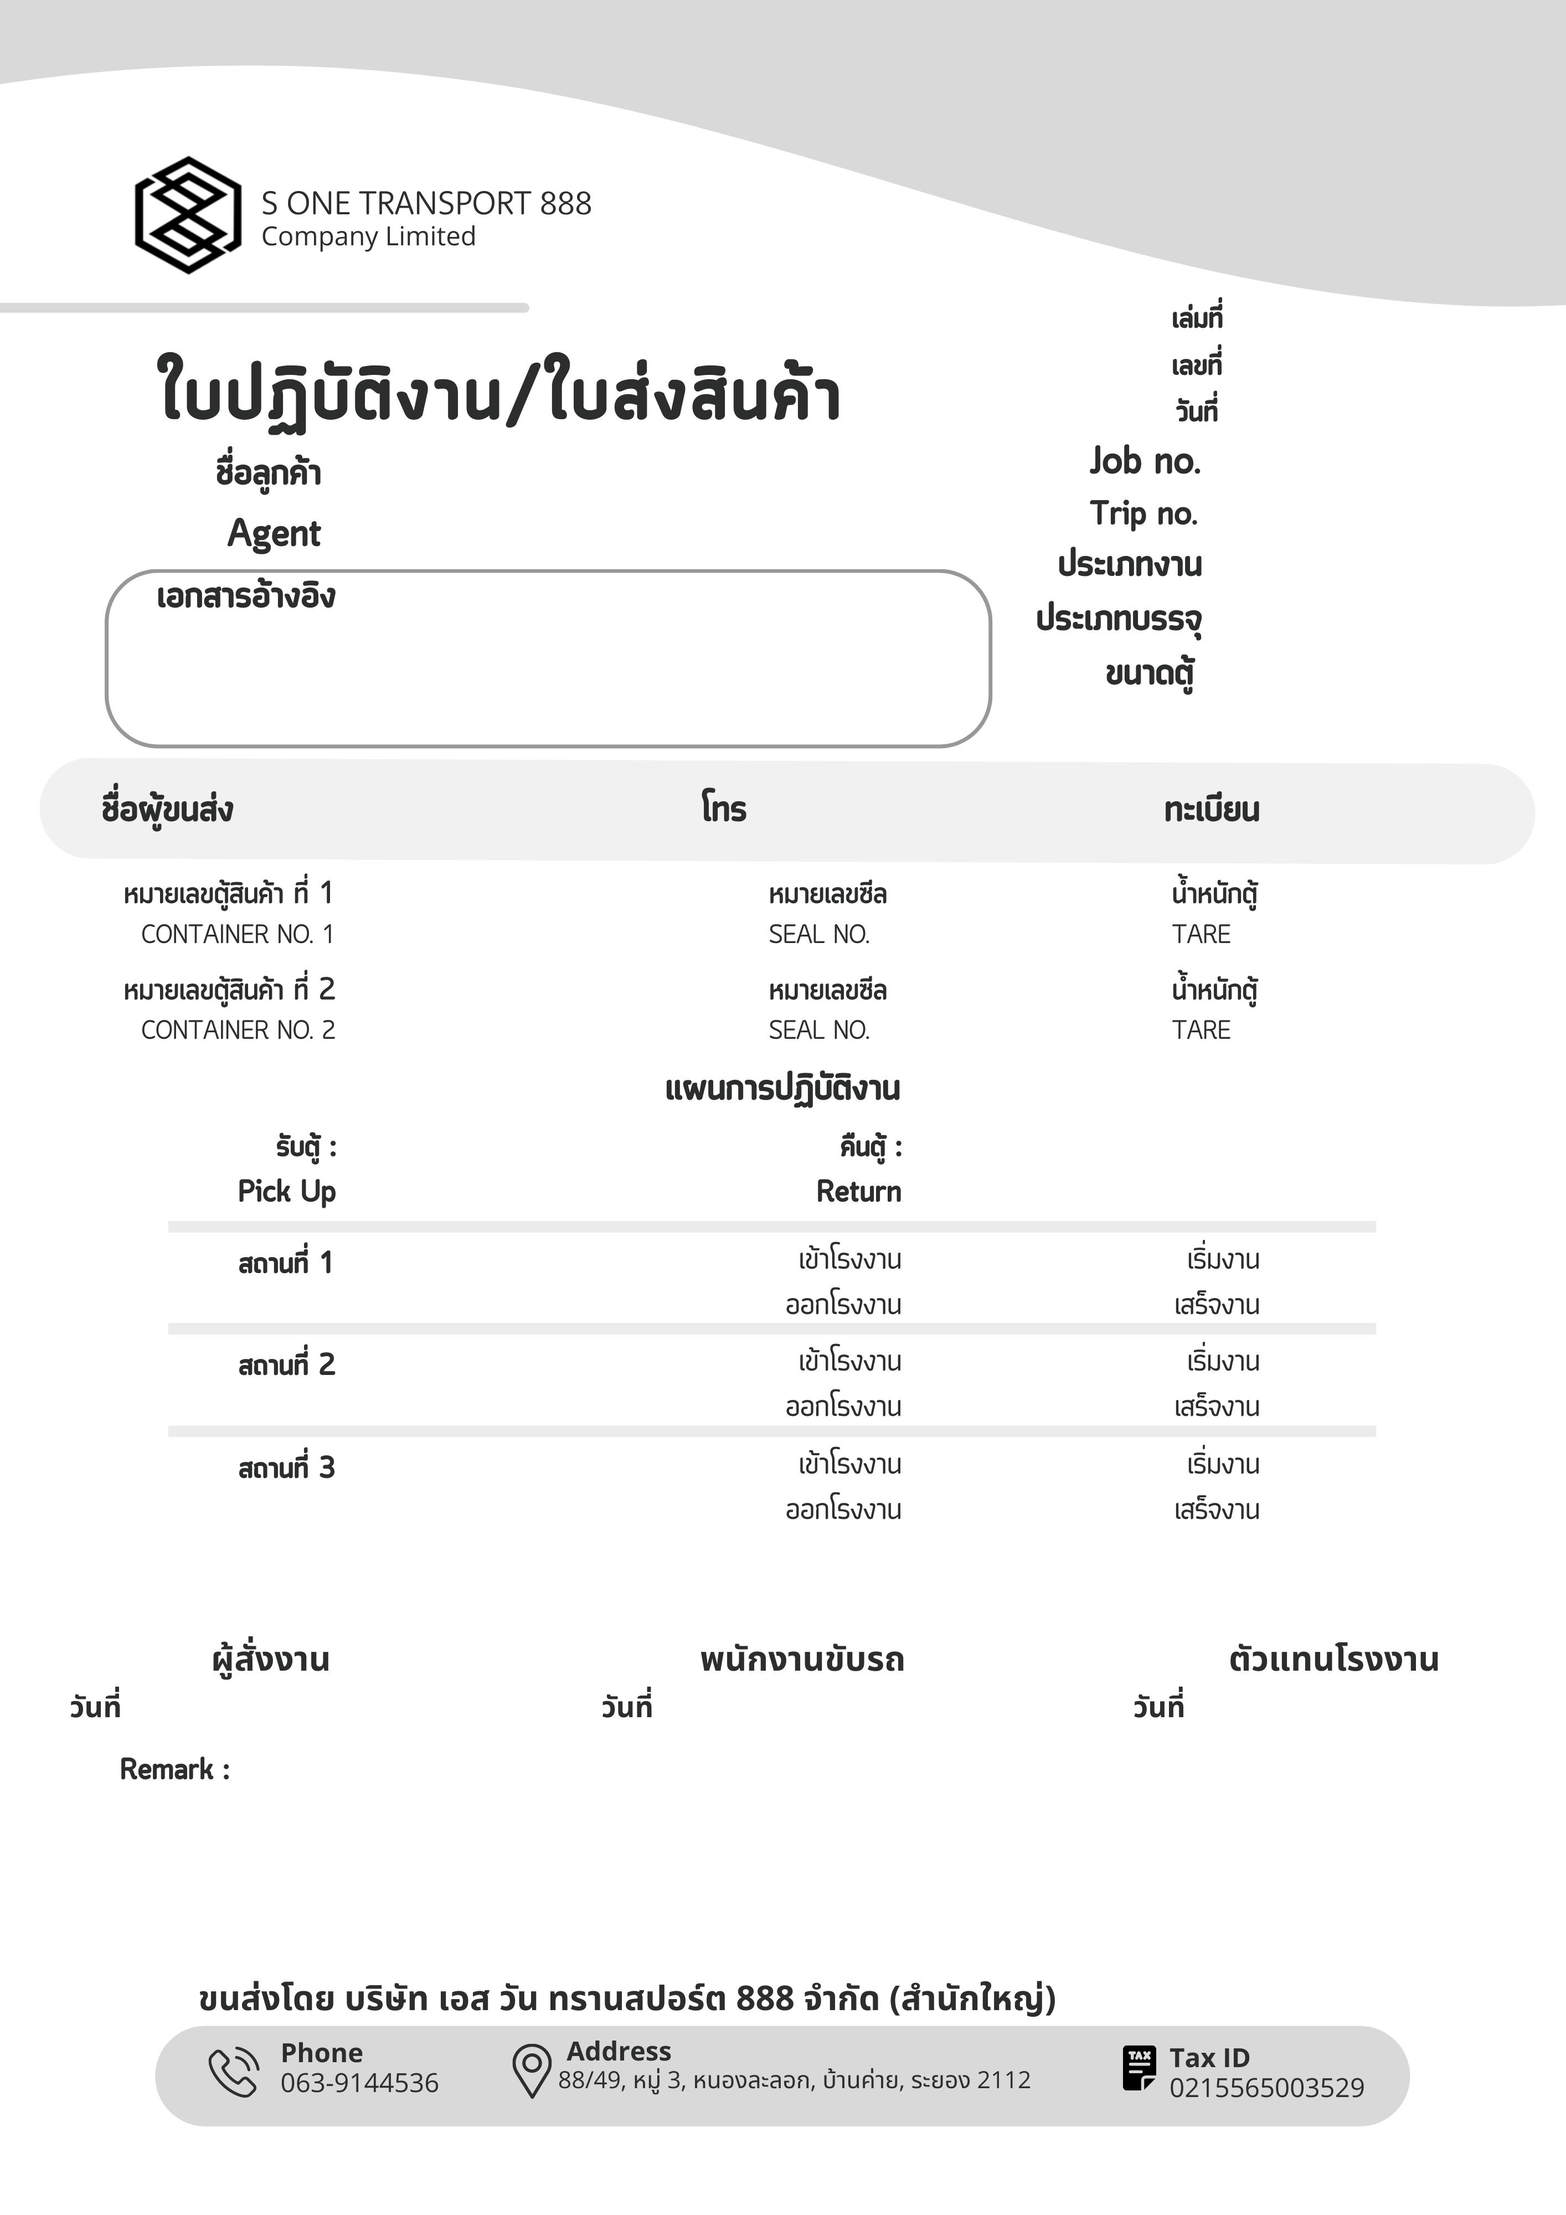
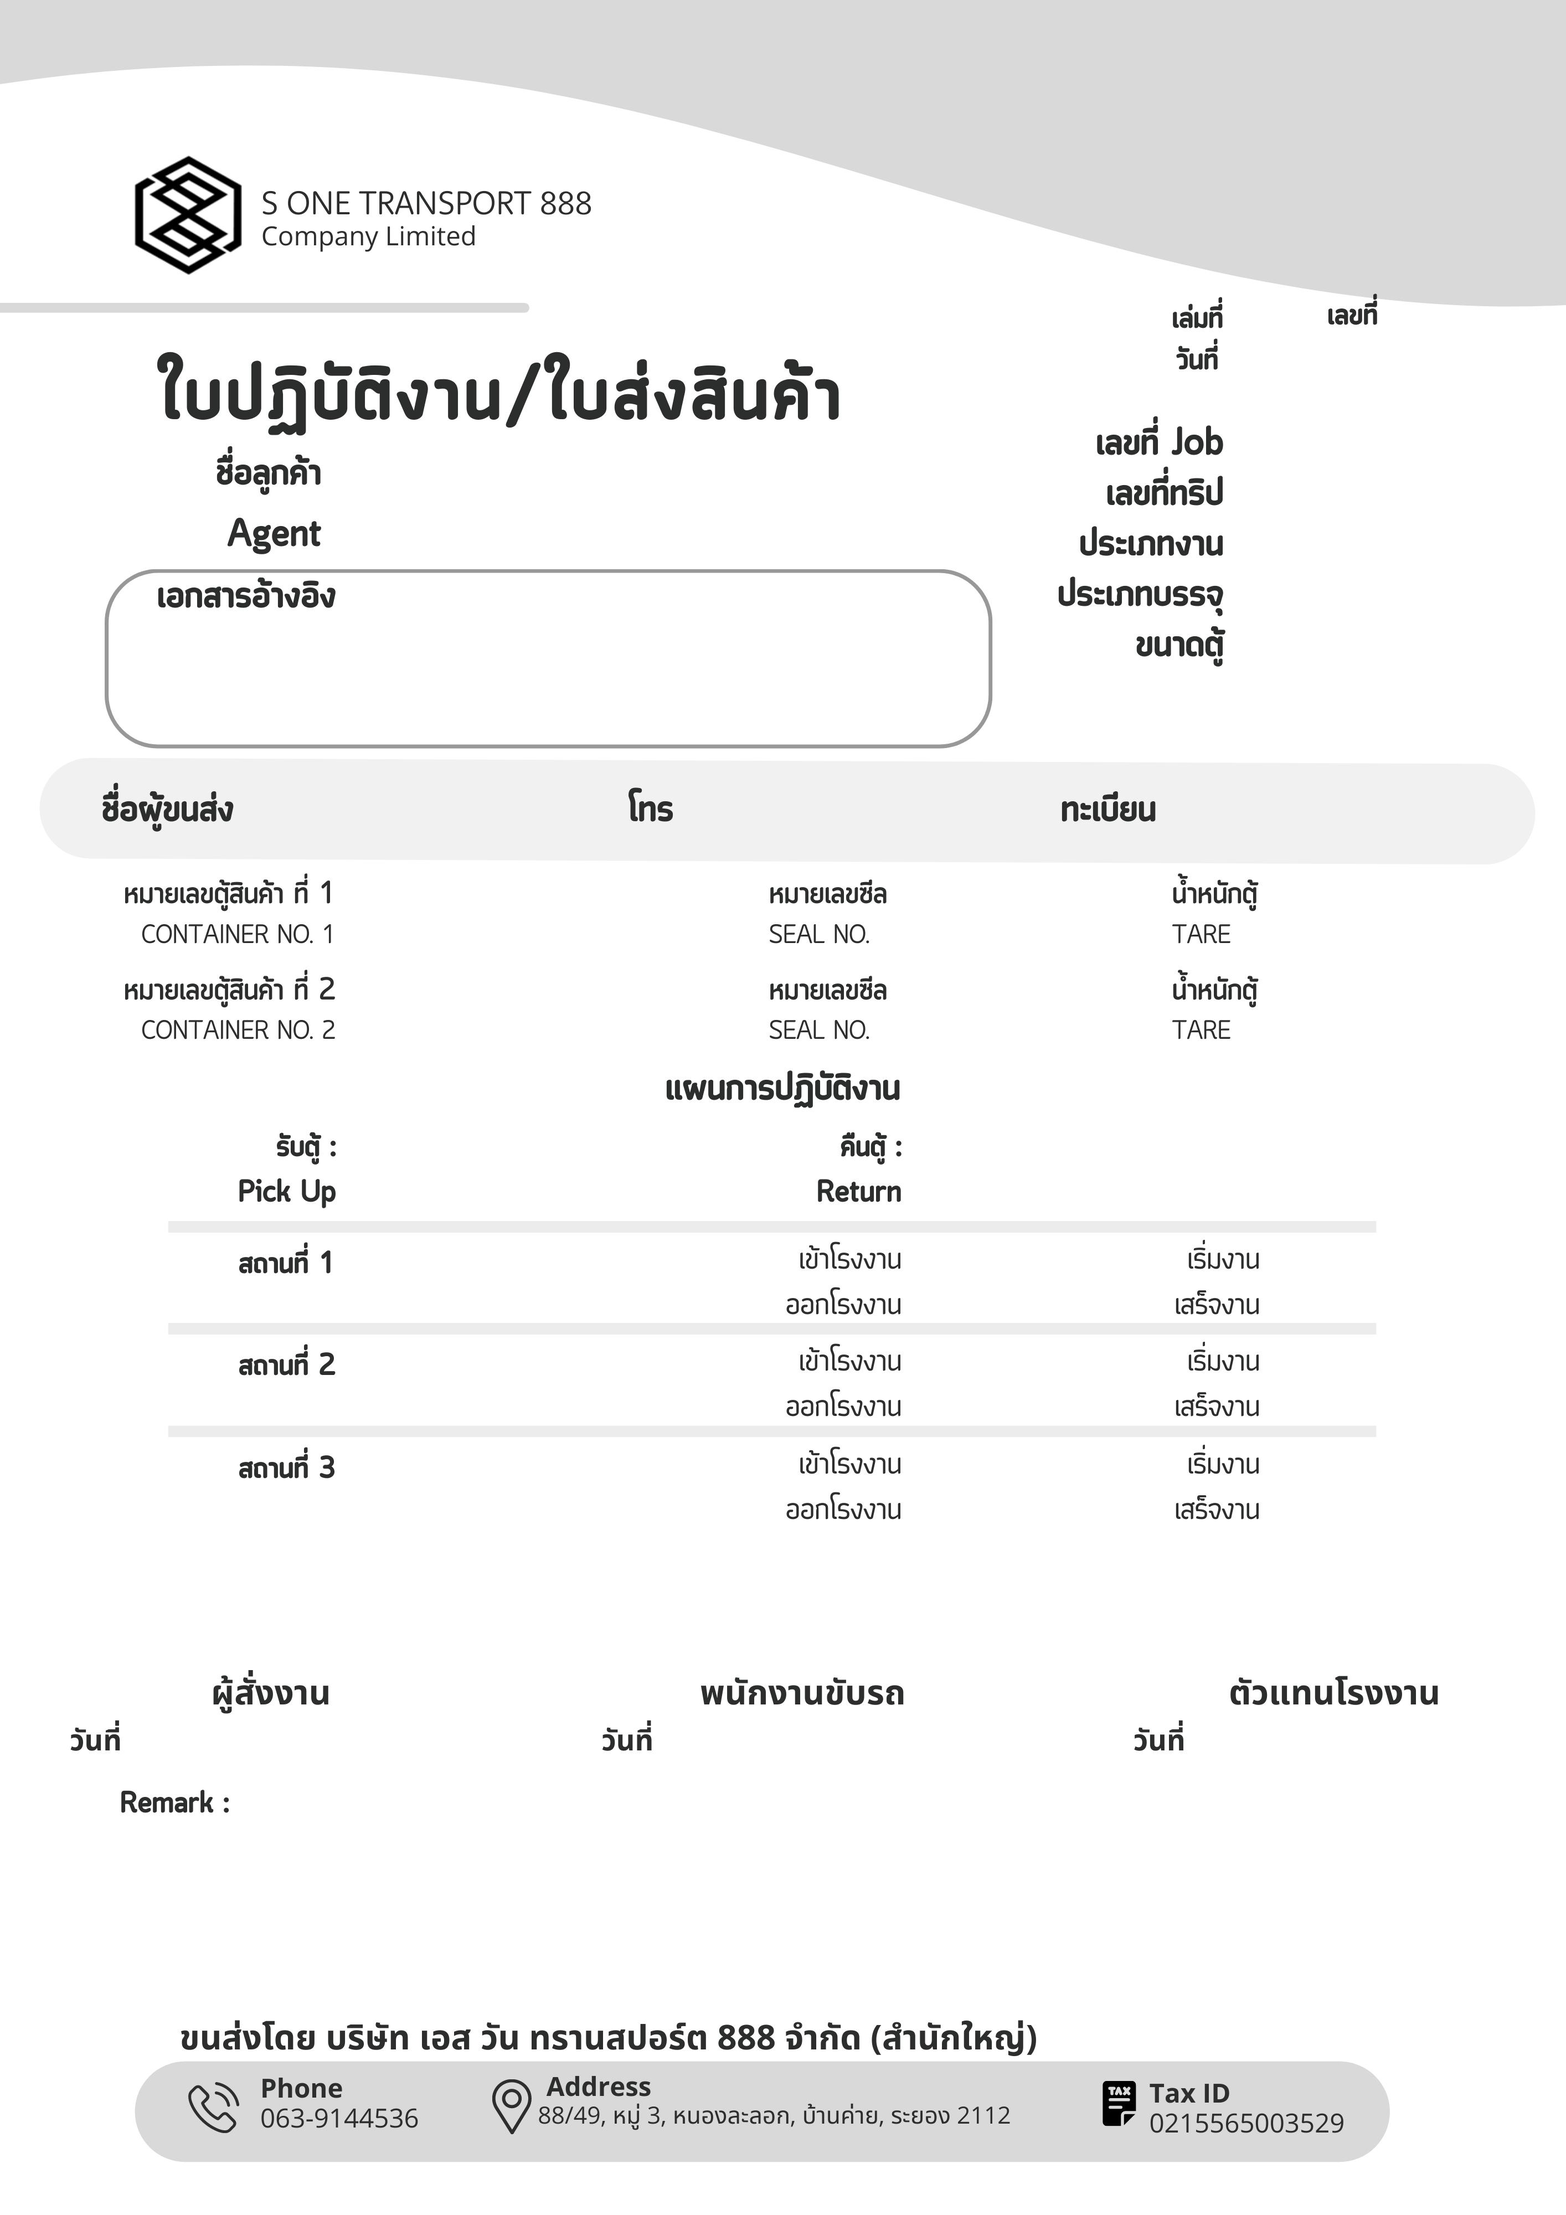
update 20230521

diff --git a/PDF_jobCard.php b/PDF_jobCard.php
@@ -2,40 +2,55 @@
 require_once('assets/plugins/custom/TCPDF/examples/tcpdf_include.php');
 
 
-function thai_date_format($datetime) {
-    // รายชื่อเดือนภาษาไทย
-    $thai_month_arr = array(
-        "0" => "",
-        "1" => "มกราคม",
-        "2" => "กุมภาพันธ์",
-        "3" => "มีนาคม",
-        "4" => "เมษายน",
-        "5" => "พฤษภาคม",
-        "6" => "มิถุนายน", 
-        "7" => "กรกฎาคม",
-        "8" => "สิงหาคม",
-        "9" => "กันยายน",
-        "10" => "ตุลาคม",
-        "11" => "พฤศจิกายน",
-        "12" => "ธันวาคม"                 
-    );
+function DateThai($strDate)
+{
+	$strYear = date("Y", strtotime($strDate)) + 543;
+	$strMonth = date("n", strtotime($strDate));
+	$strDay = date("j", strtotime($strDate));
+	$strHour = date("H", strtotime($strDate));
+	$strMinute = date("i", strtotime($strDate));
+	$strSeconds = date("s", strtotime($strDate));
+	$strMonthCut = array("", "ม.ค.", "ก.พ.", "มี.ค.", "เม.ย.", "พ.ค.", "มิ.ย.", "ก.ค.", "ส.ค.", "ก.ย.", "ต.ค.", "พ.ย.", "ธ.ค.");
+	$strMonthThai = $strMonthCut[$strMonth];
+	return "$strDay $strMonthThai $strYear, $strHour:$strMinute";
+}
 
-    // แยกวันที่และเวลา
-    $datetime = explode(' ', $datetime);
 
-    // แยกปี เดือน วัน
-    $date = explode('-', $datetime[0]);
+function thai_date_format($datetime)
+{
+	// รายชื่อเดือนภาษาไทย
+	$thai_month_arr = array(
+		"0" => "",
+		"1" => "มกราคม",
+		"2" => "กุมภาพันธ์",
+		"3" => "มีนาคม",
+		"4" => "เมษายน",
+		"5" => "พฤษภาคม",
+		"6" => "มิถุนายน",
+		"7" => "กรกฎาคม",
+		"8" => "สิงหาคม",
+		"9" => "กันยายน",
+		"10" => "ตุลาคม",
+		"11" => "พฤศจิกายน",
+		"12" => "ธันวาคม"
+	);
 
-    // แยกชั่วโมงและนาที
-    $time = explode(':', $datetime[1]);
+	// แยกวันที่และเวลา
+	$datetime = explode(' ', $datetime);
 
-    // ปรับปีเป็นปี พ.ศ.
-    $year = $date[0] + 543;
+	// แยกปี เดือน วัน
+	$date = explode('-', $datetime[0]);
 
-    // รวมวันที่และเวลาเป็นภาษาไทย
-    $thai_date = $date[2]." ".$thai_month_arr[(int)$date[1]]." ".$year." เวลา ".$time[0].":".$time[1]." น.";
+	// แยกชั่วโมงและนาที
+	$time = explode(':', $datetime[1]);
 
-    return $thai_date;
+	// ปรับปีเป็นปี พ.ศ.
+	$year = $date[0] + 543;
+
+	// รวมวันที่และเวลาเป็นภาษาไทย
+	$thai_date = $date[2] . " " . $thai_month_arr[(int)$date[1]] . " " . $year . " เวลา " . $time[0] . ":" . $time[1] . " น.";
+
+	return $thai_date;
 }
 
 
@@ -88,7 +103,7 @@ $pdf->setFooterMargin(0);
 $pdf->setPrintFooter(false);
 
 // set auto page breaks
-$pdf->setAutoPageBreak(TRUE, PDF_MARGIN_BOTTOM);
+$pdf->setAutoPageBreak(FALSE, 0);
 
 // set image scale factor
 $pdf->setImageScale(PDF_IMAGE_SCALE_RATIO);
@@ -168,7 +183,7 @@ if ($result->num_rows > 0) {
 	// ทำสิ่งที่คุณต้องการกับข้อมูลที่โหลดได้
 	// ...
 
-} 
+}
 
 $refDoc = "";
 $delimiter = "";
@@ -211,17 +226,14 @@ if (!empty($agent)) {
 if (!empty($quantity)) {
 	$refDoc .= $delimiter . "Quantity : " . $quantity;
 }
- 
+
 
 $fontColor = array(48, 84, 150);
 
 if (isset($_GET['trip_id'])) {
 	$trip_id = $_GET['trip_id'];
 	$sql = "SELECT a.*, b.contact_number FROM job_order_detail_trip_info a LEFT JOIN truck_driver_info b ON a.driver_id = b.driver_id WHERE a.job_id = $job_id AND a.id = $trip_id";
-
-}
-else
-{
+} else {
 	$sql = "SELECT a.*, b.contact_number FROM job_order_detail_trip_info a LEFT JOIN truck_driver_info b ON a.driver_id = b.driver_id WHERE a.job_id = $job_id";
 }
 $result = $conn->query($sql);
@@ -254,6 +266,14 @@ if ($result->num_rows > 0) {
 		$trip_contact_number = $row['contact_number'];
 		$trip_random_code = $row['random_code'];
 
+		if ($row['containerWeight'] == 0) {
+			$trip_containerWeight = '-';
+		}
+
+		if ($row['containerWeight2'] == 0) {
+			$trip_containerWeight2 = '-';
+		}
+
 		mysqli_set_charset($conn, "utf8");
 		// ---------------------------------------------------------
 
@@ -261,19 +281,19 @@ if ($result->num_rows > 0) {
 		$pdf->AddPage();
 
 		//main_book_no
-		$pdf->SetXY(166, 37.3); // กำหนดตำแหน่ง x = 50, y = 100 (หน่วยเป็น mm)
+		$pdf->SetXY(166, 37); // กำหนดตำแหน่ง x = 50, y = 100 (หน่วยเป็น mm)
 		$pdf->SetFont('thsarabunb', 'B', 16);
 		$pdf->SetTextColor($fontColor[0], $fontColor[1], $fontColor[2]);
 		$pdf->Cell(0, 10, $main_book_no, 0, 1, 'L', false, '', 0, false, 'T', 'C');
 
 
 		// Set position x, y for the text
-		$pdf->SetXY(166, 43.3); // กำหนดตำแหน่ง x = 50, y = 100 (หน่วยเป็น mm)
+		$pdf->SetXY(185,37); // กำหนดตำแหน่ง x = 50, y = 100 (หน่วยเป็น mm)
 		$pdf->SetFont('thsarabunb', 'B', 16);
 		$pdf->Cell(0, 10, '1', 0, 1, 'L', false, '', 0, false, 'T', 'C');
 
 		// job_date
-		$pdf->SetXY(166, 49.5); // กำหนดตำแหน่ง x = 50, y = 100 (หน่วยเป็น mm)
+		$pdf->SetXY(166, 42.5); // กำหนดตำแหน่ง x = 50, y = 100 (หน่วยเป็น mm)
 		$pdf->SetFont('thsarabunb', 'B', 16);
 		// แปลงวันที่เป็นภาษาไทย
 		$thai_date = date('d F Y', strtotime($job_date));
@@ -286,12 +306,12 @@ if ($result->num_rows > 0) {
 
 
 		// job_no
-		$pdf->SetXY(162, 56); // กำหนดตำแหน่ง x = 50, y = 100 (หน่วยเป็น mm)
+		$pdf->SetXY(164, 53); // กำหนดตำแหน่ง x = 50, y = 100 (หน่วยเป็น mm)
 		$pdf->SetFont('thsarabunb', 'B', 25);
 		$pdf->Cell(0, 10, $job_no, 0, 1, 'L', false, '', 0, false, 'T', 'C');
 
 		// trip_tripNo
-		$pdf->SetXY(162, 63.5); // กำหนดตำแหน่ง x = 50, y = 100 (หน่วยเป็น mm)
+		$pdf->SetXY(164, 61); // กำหนดตำแหน่ง x = 50, y = 100 (หน่วยเป็น mm)
 		$pdf->SetFont('thsarabunb', 'B', 18);
 		$pdf->Cell(0, 10, $trip_tripNo, 0, 1, 'L', false, '', 0, false, 'T', 'C');
 
@@ -315,13 +335,13 @@ if ($result->num_rows > 0) {
 
 
 		// job_type
-		$pdf->SetXY(162, 70.5); // กำหนดตำแหน่ง x = 50, y = 100 (หน่วยเป็น mm)
+		$pdf->SetXY(164, 68); // กำหนดตำแหน่ง x = 50, y = 100 (หน่วยเป็น mm)
 		$pdf->SetFont('thsarabunb', 'B', 16);
 		$pdf->Cell(0, 10, $job_type, 0, 1, 'L', false, '', 0, false, 'T', 'C');
 
 
 		// trip_truckType
-		$pdf->SetXY(162, 78.5); // กำหนดตำแหน่ง x = 50, y = 100 (หน่วยเป็น mm)
+		$pdf->SetXY(164, 75); // กำหนดตำแหน่ง x = 50, y = 100 (หน่วยเป็น mm)
 		$pdf->SetFont('thsarabunb', 'B', 12);
 		$pdf->Cell(0, 10, $trip_truckType, 0, 1, 'L', false, '', 0, false, 'T', 'C');
 
@@ -331,13 +351,19 @@ if ($result->num_rows > 0) {
 		$pdf->Cell(0, 10, $trip_driver_name, 0, 1, 'L', false, '', 0, false, 'T', 'C');
 
 		// trip_contact_number
-		$pdf->SetXY(103, 103); // กำหนดตำแหน่ง x = 50, y = 100 (หน่วยเป็น mm)
+		
+		
+		$pdf->SetXY(92, 103); // กำหนดตำแหน่ง x = 50, y = 100 (หน่วยเป็น mm)
 		$pdf->SetFont('thsarabunb', 'B', 20);
 		$pdf->Cell(0, 10, $trip_contact_number, 0, 1, 'L', false, '', 0, false, 'T', 'C');
 
 		// trip_truck_licenseNo
-		$pdf->SetXY(168, 103); // กำหนดตำแหน่ง x = 50, y = 100 (หน่วยเป็น mm)
-		$pdf->SetFont('thsarabunb', 'B', 20);
+		$licensefs = 20;
+		if (strlen($trip_truck_licenseNo) > 30) {
+			$licensefs = 16;
+		}
+		$pdf->SetXY(155, 103.5); // กำหนดตำแหน่ง x = 50, y = 100 (หน่วยเป็น mm)
+		$pdf->SetFont('thsarabunb', 'B', $licensefs);
 		$pdf->Cell(0, 10, $trip_truck_licenseNo, 0, 1, 'L', false, '', 0, false, 'T', 'C');
 
 		// trip_containerID
@@ -371,27 +397,34 @@ if ($result->num_rows > 0) {
 		$pdf->Cell(0, 10, $trip_containerWeight2, 0, 1, 'L', false, '', 0, false, 'T', 'C');
 
 		// trip_containerWeight2
-		$pdf->SetXY(162, 85.5); // กำหนดตำแหน่ง x = 50, y = 100 (หน่วยเป็น mm)
+		$pdf->SetXY(164, 81); // กำหนดตำแหน่ง x = 50, y = 100 (หน่วยเป็น mm)
 		$pdf->SetFont('thsarabunb', 'B', 18);
 		$pdf->Cell(0, 10, $trip_containersize, 0, 1, 'L', false, '', 0, false, 'T', 'C');
 
 
 		// trip_containerWeight2
-		$pdf->SetXY(15, 242); // กำหนดตำแหน่ง x = 50, y = 100 (หน่วยเป็น mm)
+		$pdf->SetXY(15, 246); // กำหนดตำแหน่ง x = 50, y = 100 (หน่วยเป็น mm)
 		$pdf->SetFont('thsarabunb', '', 14);
 		$pdf->Cell(0, 10, $remark, 0, 1, 'L', false, '', 0, false, 'T', 'C');
 
 		//trip_jobStartDateTime
 
-		$pdf->SetXY(15, 237); // กำหนดตำแหน่ง x = 50, y = 100 (หน่วยเป็น mm)
+		$pdf->SetXY(15, 242); // กำหนดตำแหน่ง x = 50, y = 100 (หน่วยเป็น mm)
 		$pdf->SetFont('thsarabunb', '', 14);
-		$pdf->Cell(0, 10, "เริ่ม : ".thai_date_format($trip_jobStartDateTime), 0, 1, 'L', false, '', 0, false, 'T', 'C');
+		$pdf->Cell(0, 10, "เริ่ม : " . thai_date_format($trip_jobStartDateTime), 0, 1, 'L', false, '', 0, false, 'T', 'C');
+
+		// trip_containerWeight2
+		// กำหนดโซนเวลา
+		date_default_timezone_set('Asia/Bangkok');
+		$currentDateTime = date('d/m/Y H:i:s');
+		$pdf->SetXY(15, 287); // กำหนดตำแหน่ง x = 50, y = 100 (หน่วยเป็น mm)
+		$pdf->SetFont('thsarabunb', '', 14);
+		$pdf->Cell(0, 10, "Export Date : ".$currentDateTime, 0, 1, 'R', false, '', 0, false, 'T', 'C');
 
 
 		//$trip_status
 		// trip_containerWeight2
-		if ($trip_status == "ยกเลิก")
-		{
+		if ($trip_status == "ยกเลิก") {
 			$pdf->SetXY(15, 5); // กำหนดตำแหน่ง x = 50, y = 100 (หน่วยเป็น mm)
 			$pdf->SetTextColor(200, 42, 75);
 			$pdf->SetFont('thsarabunb', '', 30);
@@ -441,7 +474,6 @@ if ($result->num_rows > 0) {
 				$pdf->SetXY(46, 156); // กำหนดตำแหน่ง x = 50, y = 100 (หน่วยเป็น mm)
 				$pdf->SetFont('thsarabunb', 'B', 11);
 				$pdf->Cell(0, 10, $trip_detail_job_note, 0, 1, 'L', false, '', 0, false, 'T', 'C');
-
 			} else if (in_array($trip_detail_job_characteristic_id, ['1010', '1011'])) {
 				// Return Process
 				$pdf->SetXY(122, 147); // กำหนดตำแหน่ง x = 50, y = 100 (หน่วยเป็น mm)
@@ -455,21 +487,19 @@ if ($result->num_rows > 0) {
 				$pdf->SetXY(122, 156); // กำหนดตำแหน่ง x = 50, y = 100 (หน่วยเป็น mm)
 				$pdf->SetFont('thsarabunb', 'B', 11);
 				$pdf->Cell(0, 10, $trip_detail_job_note, 0, 1, 'L', false, '', 0, false, 'T', 'C');
-
-
 			} else {
-				$pdf->SetXY(46, 162+($cnt*14)); // กำหนดตำแหน่ง x = 50, y = 100 (หน่วยเป็น mm)
+				$pdf->SetXY(46, 162 + ($cnt * 14)); // กำหนดตำแหน่ง x = 50, y = 100 (หน่วยเป็น mm)
 				$pdf->SetFont('thsarabunb', 'B', 18);
 				$pdf->Cell(0, 10, $trip_detail_location_code, 0, 1, 'L', false, '', 0, false, 'T', 'C');
 
-				$pdf->SetXY(46, 166+($cnt*14)); // กำหนดตำแหน่ง x = 50, y = 100 (หน่วยเป็น mm)
+				$pdf->SetXY(46, 166 + ($cnt * 14)); // กำหนดตำแหน่ง x = 50, y = 100 (หน่วยเป็น mm)
 				$pdf->SetFont('thsarabunb', 'B', 14);
 				$pdf->Cell(0, 10, $trip_detail_job_characteristic, 0, 1, 'L', false, '', 0, false, 'T', 'C');
 
-				$pdf->SetXY(46, 170+($cnt*14)); // กำหนดตำแหน่ง x = 50, y = 100 (หน่วยเป็น mm)
+				$pdf->SetXY(46, 170 + ($cnt * 14)); // กำหนดตำแหน่ง x = 50, y = 100 (หน่วยเป็น mm)
 				$pdf->SetFont('thsarabunb', 'B', 11);
 				$pdf->Cell(0, 10, $trip_detail_job_note, 0, 1, 'L', false, '', 0, false, 'T', 'C');
-				
+
 				$cnt = $cnt + 1;
 			}
 		}
@@ -477,7 +507,7 @@ if ($result->num_rows > 0) {
 
 		// Generate QR Code
 		$pdf->Rect(160, 5, 30, 30, 'F', '', array(255, 255, 255));
-		$token_link = $SERVER_NAME."tripDetail.php?r=".$trip_random_code ;
+		$token_link = $SERVER_NAME . "tripDetail.php?r=" . $trip_random_code;
 		$pdf->write2DBarcode($token_link, 'QRCODE,H', 160, 5, 30, 30, $style, 'N');
 	}
 } else {
